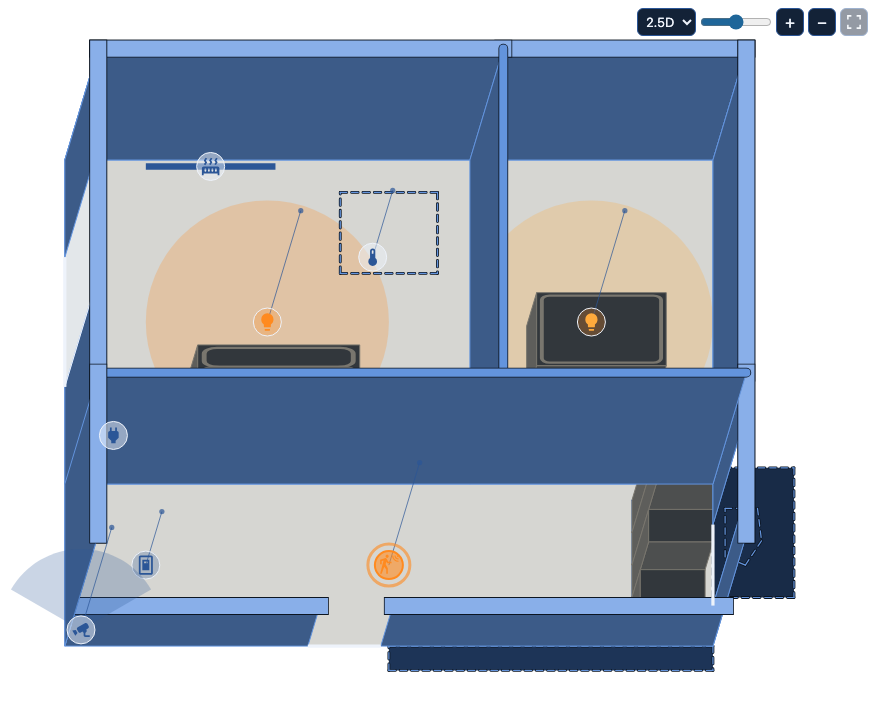
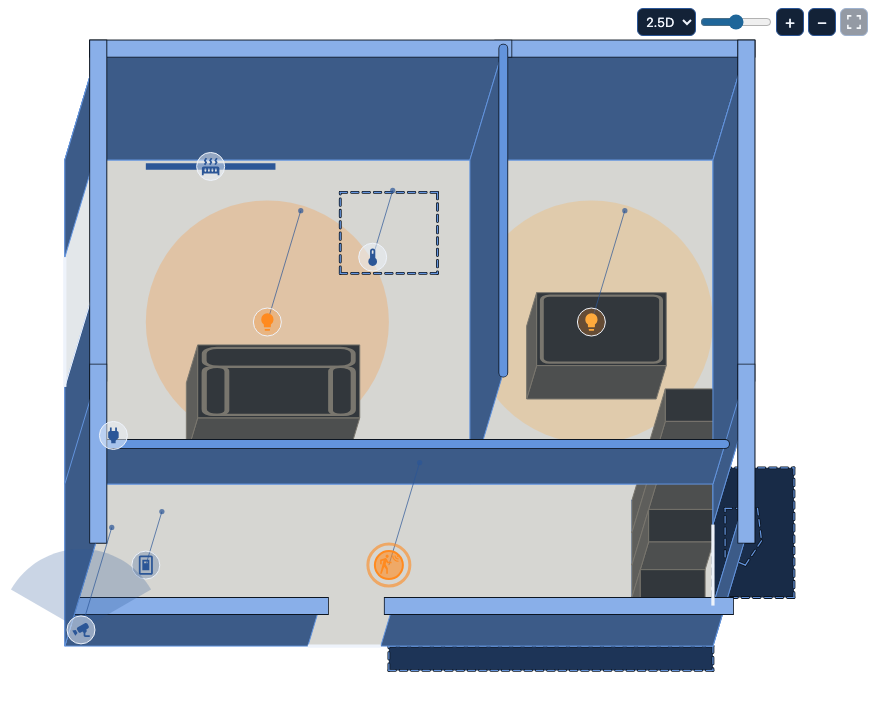
Document the back-wall cutaway and refresh the 2.5D doc images
The decision supersedes the known limit logged with tilt. Images redrawn
by doc-shots: the Living room and Kitchen are no longer hidden.

Changed region(s): [[0.1233, 0.4889, 0.863, 0.6417]]

diff --git a/docs/DECISIONS.md b/docs/DECISIONS.md
@@ -2,6 +2,24 @@
 
 Newest first. A change supersedes; nothing is edited.
 
+## 2026-10-02: the cutaway follows what a wall covers
+
+Supersedes the "known limit" in the tilt entry below. A wall is cut to
+`cutaway` when it would hide a room, not when its own room is in front of it.
+Rule, in `collectWalls` (`solids.ts`): an edge whose outward normal points up
+the screen (`ny < -0.3`) is also cut when its sweep, the parallelogram from its
+base along the lift `h * (rise * skew, -rise)`, overlaps the floor of any room
+or zone by more than 25 cm squared. Only the outward side counts, so a room
+never cuts itself. Overlap is a Sutherland-Hodgman clip of the room outline
+against the sweep, so an L-shaped room works. The whole segment takes the cut
+when part is covered: a wall that steps along its length reads as a fault.
+Side walls (`|ny| <= 0.3`) and free walls keep today's rule. Why not by edge
+owner: the Hall's north wall and the Living room's south wall are different
+edges of different length, so dedupe never paired them. The default 2.5D output
+changes (walls between a back room and a front room); 2D does not. At tilt 0
+the sweep has no area and nothing is cut, which is invisible. `Proj` gains
+`rise`.
+
 ## 2026-10-02: tilt, and labels as a render option
 
 **Tilt.** One function, `obliqueFor(tilt)` in `render.ts`, maps a 0..1 tilt to

diff --git a/CHANGELOG.md b/CHANGELOG.md
@@ -2,6 +2,7 @@
 
 ## Unreleased
 
+- 2.5D: a wall that faces north is now cut to the cutaway when its lift would cover another room or zone (the Hall's north wall over the Living room, the Office's over the Bedroom and Bathroom). Before, only walls facing south and edges shared with them were cut, so these hid the rooms behind them, badly at tilt 1. A back wall with nothing behind it stays full. 2D output is unchanged; the default 2.5D picture changes.
 - Tilt. The 2.5D view can look down more or less steeply: a Tilt slider beside the card's View dropdown (only in 2.5D), config `tilt` from `0` (top-down, no lift) to `1` (side-on), default `0.5`, which is exactly the 2.5D look of before. The near walls are cut lower as the tilt grows so rooms stay visible. The box widens by the actual lift. The Edit-card form has a slider; the editor has View, Tilt, enabled in 2.5D, session only.
 - Hide text. Card config `labels: false` (form: "Show names and text") and the editor's View, Show names and text draw no names, values or leader lines, leaving icons, auras and state. It is a `renderFloor` option, so the card and the editor cannot differ. Default shown; output with it on is unchanged.
 - Shots and doc images gain tilt 0 and 1 and a no-text card.

diff --git a/docs/card.md b/docs/card.md
@@ -94,6 +94,9 @@ and taps are unchanged. It works in 2D and 2.5D.
 - Walls are drawn at their height (250 cm by default). The walls on the
   near, south-facing side of the house are cut down to 90 cm, like a doll's
   house with the front taken off, so they never hide the rooms behind them.
+  So is any wall facing north whose lift would cover another room's floor (the
+  Hall's north wall over the Living room); a back wall with nothing behind it
+  keeps its full height.
   A fence keeps its own height; kerbs and boundary lines stay flat.
 - A door is a gap in the wall, a window is a band of glass above its sill, a
   glass door is glass from the floor, a sealed door is a solid panel. The
